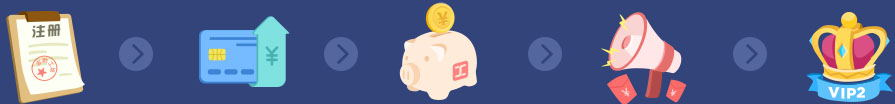
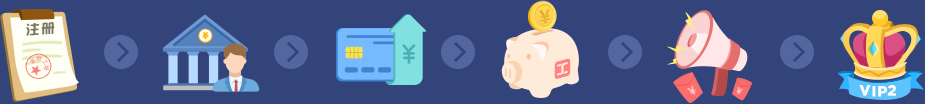
no message

diff --git a/apps/eten/guide/index.html b/apps/eten/guide/index.html
@@ -90,6 +90,13 @@
                                 <span class="title-text">投资安全</span>
                                 <p class="text">融资性担保公司<br>第三方担保</p>
                             </li>
+                            <li>
+                                <div class="img">
+                                    <img src="images/03.png"/>
+                                </div>
+                                <span class="title-text">银行资金存管</span>
+                                <p class="text">徽商银行资金存管</p>
+                            </li>
                         </ul>
 
                     </div>
@@ -390,6 +397,10 @@
                             <li>
                                 <span class="title-text">注册</span>
                                 <span class="info-text">即送120元</span>
+                            </li>
+                            <li>
+                                <span class="title-text">开户</span>
+                                <span class="info-text">安全有保障</span>
                             </li>
                             <li>
                                 <span class="title-text">充值</span>
